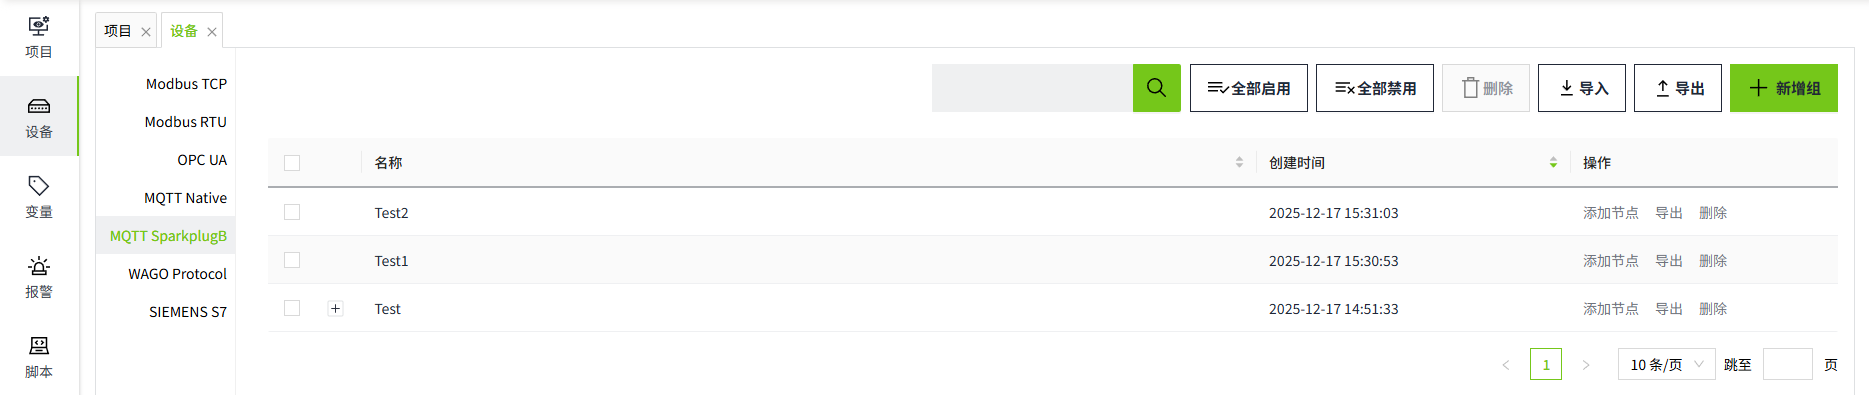
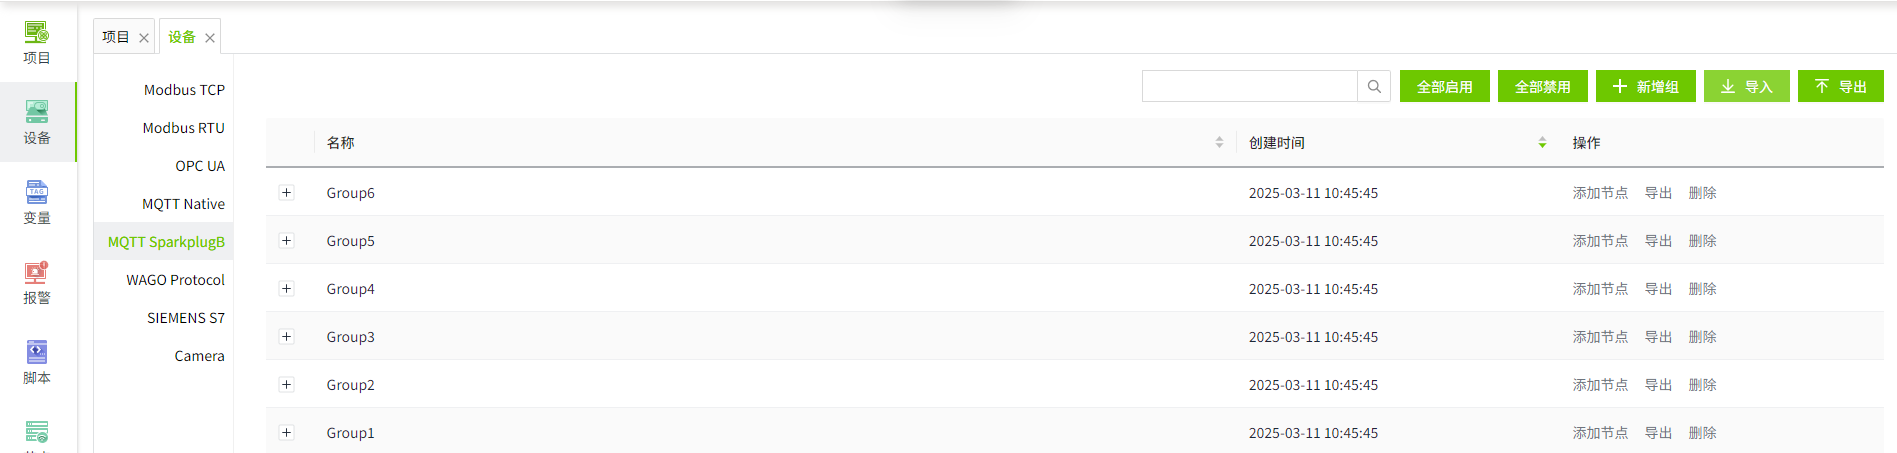
1

diff --git a/docs/management-platform/devices/mqtt-sparkplugb/batch-operation.md b/docs/management-platform/devices/mqtt-sparkplugb/batch-operation.md
@@ -1,12 +1,12 @@
 # 批量操作MQTT SparkplugB设备
 
-在工业现场，往往需要批量创建设备。WAGO VC Hub通过**导出和导入**功能来实现这一功能。
+在工业现场，往往需要批量创建设备。WAGO SCADA通过 **导出和导入** 功能来实现这一功能。
 
-**说明：**要想实现快速创建设备，建议先在列表中手动新增一条设备信息，之后将该设备进行导出，根据导出的字段信息添加新的设备。
+**说明：** 要想实现快速创建设备，建议先在列表中手动新增一条设备信息，之后将该设备进行导出，根据导出的字段信息添加新的设备。
 
-#### 批量新增
+## 批量新增
 
-###### 1.导出设备
+#### 1.导出设备
 
 点击列表右上角的“导出”按钮，可以将列表中的所有设备信息进行导出。
 
@@ -20,19 +20,19 @@
 - 如果是组，则“IsGroup”字段为True。
 - 节点信息紧跟在对应的组备下面。例如上图的“Group1”下，存在1个节点，Node1。
 
-###### 2.在Excel中新增设备
+#### 2.在Excel中新增设备
 
 选中组和节点，拉动鼠标，完成快速复制。组名称会递增。
 
 ![alt text](10.gif)
 
-###### 3.导入设备
+#### 3.导入设备
 
 点击列表右上角的“导入”按钮，可以将导出的内容进行导入。导入后，新增的设备的启用状态默认为“已禁用”。
 
 ![alt text](11.png)
 
-#### 批量修改
+## 批量修改
 
 可以通过导出的excel，对设备信息进行批量修改。修改后将excel导入，导入时，将按照名称进行数据更新。
 
@@ -41,7 +41,7 @@
 - Excel中的组名称或者节点名称在MQTT SparkplugB列表中不存在，则在列表中新增该组和节点。
 - MQTT SparkplugB列表中的组，不存在于导入文件中，则导入后，列表中的该数据不受影响。
 
-#### 批量删除
+## 批量删除
 
 勾选需要删除的设备后，点击列表上方的删除按钮进行批量删除。
 

diff --git a/docs/management-platform/devices/opc-ua/index.md b/docs/management-platform/devices/opc-ua/index.md
@@ -107,11 +107,12 @@
 
 5. 点击 **受信任的客户端** 标签页。
 
-   ![alt text](14.png)
+      ![alt text](14.png)
 
 6. 单击系统对应的OPC UA客户端，单击 **信任** 按钮，然后单击 **关闭**。现在，OPC服务器连接页面显示要连接的Kepware的状态。
 
 7. 右键单击安装了KEPServerEX的桌面上的KEPServerEX图标，然后从菜单中选择 **重新初始化**。
+
 8. 重新点击 **测试连接**，检验是否连接成功。
 
 9. 点击操作栏中的 **查看** 可显示OPC UA服务器(Kepware)中配置的目录或节点信息。
